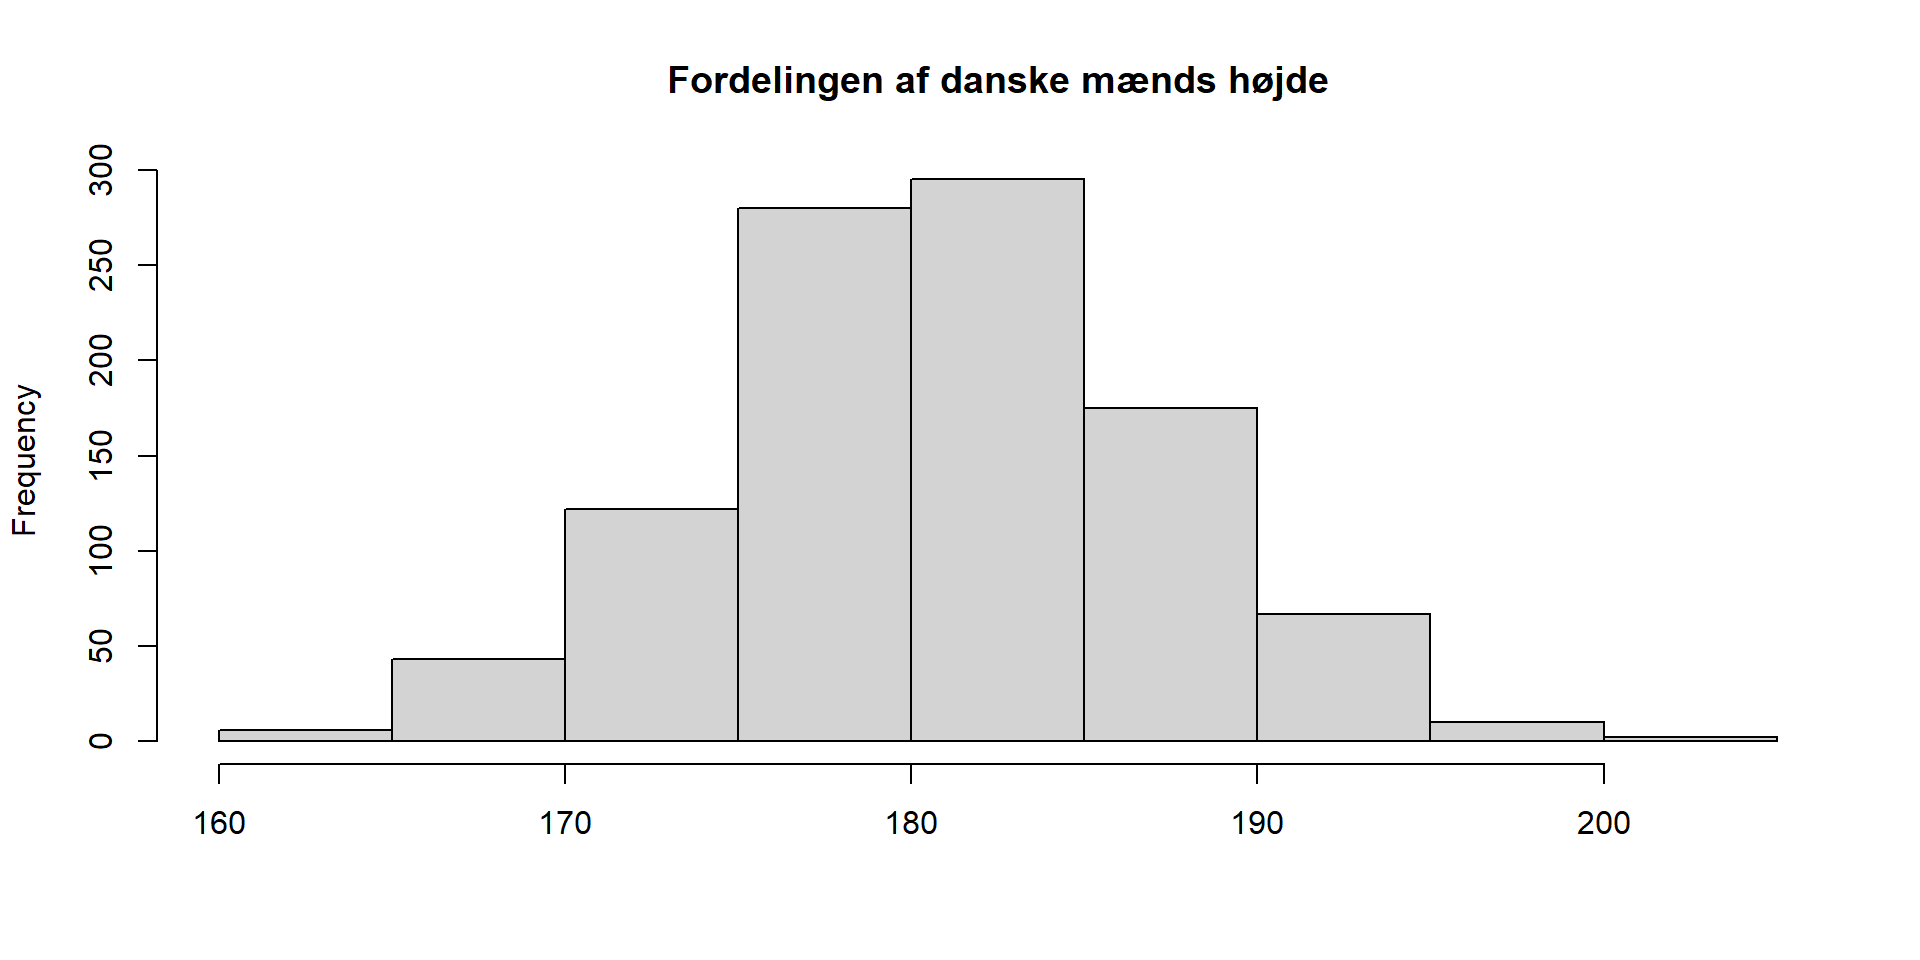
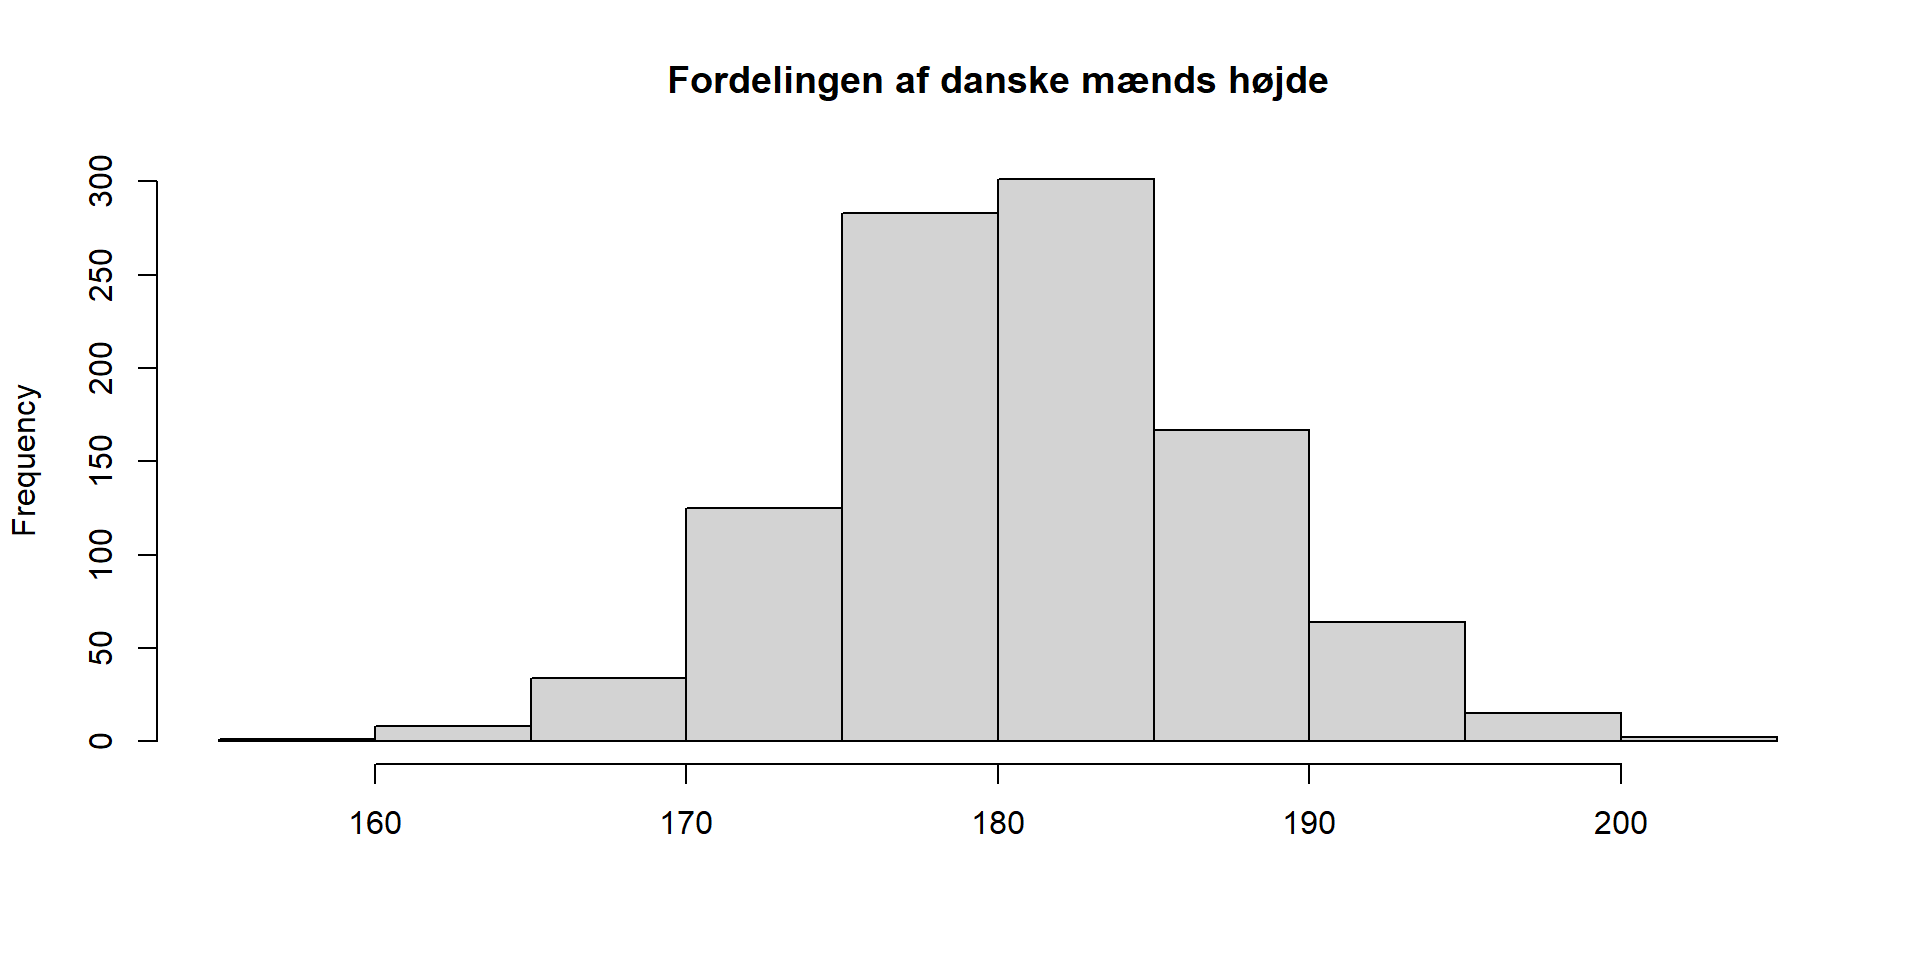
mer på normalfordelingsøvelser

diff --git a/docs/slides/normalfordelingen.html b/docs/slides/normalfordelingen.html
@@ -487,7 +487,7 @@
   };
 
   // Store cell data
-  globalThis.qwebrCellDetails = [{"code":"","id":1,"options":{"autorun":"false","classes":"","comment":"","context":"interactive","dpi":72,"editor-font-scale":"0.5","editor-max-height":"","editor-quick-suggestions":"false","editor-word-wrap":"true","fig-cap":"","fig-height":5,"fig-width":7,"label":"unnamed-chunk-1","layout":"horizontal","message":"true","out-height":"","out-width":"700px","output":"true","read-only":"false","results":"markup","warning":"true"}},{"code":"","id":2,"options":{"autorun":"false","classes":"","comment":"","context":"interactive","dpi":72,"editor-font-scale":"0.5","editor-max-height":"","editor-quick-suggestions":"false","editor-word-wrap":"true","fig-cap":"","fig-height":5,"fig-width":7,"label":"unnamed-chunk-2","layout":"horizontal","message":"true","out-height":"","out-width":"700px","output":"true","read-only":"false","results":"markup","warning":"true"}},{"code":"","id":3,"options":{"autorun":"false","classes":"","comment":"","context":"interactive","dpi":72,"editor-font-scale":"0.5","editor-max-height":"","editor-quick-suggestions":"false","editor-word-wrap":"true","fig-cap":"","fig-height":5,"fig-width":7,"label":"unnamed-chunk-3","layout":"horizontal","message":"true","out-height":"","out-width":"700px","output":"true","read-only":"false","results":"markup","warning":"true"}},{"code":"","id":4,"options":{"autorun":"false","classes":"","comment":"","context":"interactive","dpi":72,"editor-font-scale":"0.5","editor-max-height":"","editor-quick-suggestions":"false","editor-word-wrap":"true","fig-cap":"","fig-height":5,"fig-width":7,"label":"unnamed-chunk-4","layout":"horizontal","message":"true","out-height":"","out-width":"700px","output":"true","read-only":"false","results":"markup","warning":"true"}},{"code":"","id":5,"options":{"autorun":"false","classes":"","comment":"","context":"interactive","dpi":72,"editor-font-scale":"0.5","editor-max-height":"","editor-quick-suggestions":"false","editor-word-wrap":"true","fig-cap":"","fig-height":5,"fig-width":7,"label":"unnamed-chunk-5","layout":"horizontal","message":"true","out-height":"","out-width":"700px","output":"true","read-only":"false","results":"markup","warning":"true"}},{"code":"","id":6,"options":{"autorun":"false","classes":"","comment":"","context":"interactive","dpi":72,"editor-font-scale":"0.5","editor-max-height":"","editor-quick-suggestions":"false","editor-word-wrap":"true","fig-cap":"","fig-height":5,"fig-width":7,"label":"unnamed-chunk-6","layout":"horizontal","message":"true","out-height":"","out-width":"700px","output":"true","read-only":"false","results":"markup","warning":"true"}},{"code":"","id":7,"options":{"autorun":"false","classes":"","comment":"","context":"interactive","dpi":72,"editor-font-scale":"0.5","editor-max-height":"","editor-quick-suggestions":"false","editor-word-wrap":"true","fig-cap":"","fig-height":5,"fig-width":7,"label":"unnamed-chunk-7","layout":"horizontal","message":"true","out-height":"","out-width":"700px","output":"true","read-only":"false","results":"markup","warning":"true"}},{"code":"","id":8,"options":{"autorun":"false","classes":"","comment":"","context":"interactive","dpi":72,"editor-font-scale":"0.5","editor-max-height":"","editor-quick-suggestions":"false","editor-word-wrap":"true","fig-cap":"","fig-height":5,"fig-width":7,"label":"unnamed-chunk-8","layout":"horizontal","message":"true","out-height":"","out-width":"700px","output":"true","read-only":"false","results":"markup","warning":"true"}},{"code":"","id":9,"options":{"autorun":"false","classes":"","comment":"","context":"interactive","dpi":72,"editor-font-scale":"0.5","editor-max-height":"","editor-quick-suggestions":"false","editor-word-wrap":"true","fig-cap":"","fig-height":5,"fig-width":7,"label":"unnamed-chunk-9","layout":"horizontal","message":"true","out-height":"","out-width":"700px","output":"true","read-only":"false","results":"markup","warning":"true"}},{"code":"","id":10,"options":{"autorun":"false","classes":"","comment":"","context":"interactive","dpi":72,"editor-font-scale":"0.5","editor-max-height":"","editor-quick-suggestions":"false","editor-word-wrap":"true","fig-cap":"","fig-height":5,"fig-width":7,"label":"unnamed-chunk-10","layout":"horizontal","message":"true","out-height":"","out-width":"700px","output":"true","read-only":"false","results":"markup","warning":"true"}}];
+  globalThis.qwebrCellDetails = [{"code":"","id":1,"options":{"autorun":"false","classes":"","comment":"","context":"interactive","dpi":72,"editor-font-scale":"0.5","editor-max-height":"","editor-quick-suggestions":"false","editor-word-wrap":"true","fig-cap":"","fig-height":5,"fig-width":7,"label":"unnamed-chunk-1","layout":"horizontal","message":"true","out-height":"","out-width":"700px","output":"true","read-only":"false","results":"markup","warning":"true"}},{"code":"","id":2,"options":{"autorun":"false","classes":"","comment":"","context":"interactive","dpi":72,"editor-font-scale":"0.5","editor-max-height":"","editor-quick-suggestions":"false","editor-word-wrap":"true","fig-cap":"","fig-height":5,"fig-width":7,"label":"unnamed-chunk-2","layout":"horizontal","message":"true","out-height":"","out-width":"700px","output":"true","read-only":"false","results":"markup","warning":"true"}},{"code":"","id":3,"options":{"autorun":"false","classes":"","comment":"","context":"interactive","dpi":72,"editor-font-scale":"0.5","editor-max-height":"","editor-quick-suggestions":"false","editor-word-wrap":"true","fig-cap":"","fig-height":5,"fig-width":7,"label":"unnamed-chunk-3","layout":"horizontal","message":"true","out-height":"","out-width":"700px","output":"true","read-only":"false","results":"markup","warning":"true"}},{"code":"","id":4,"options":{"autorun":"false","classes":"","comment":"","context":"interactive","dpi":72,"editor-font-scale":"0.5","editor-max-height":"","editor-quick-suggestions":"false","editor-word-wrap":"true","fig-cap":"","fig-height":5,"fig-width":7,"label":"unnamed-chunk-4","layout":"horizontal","message":"true","out-height":"","out-width":"700px","output":"true","read-only":"false","results":"markup","warning":"true"}},{"code":"","id":5,"options":{"autorun":"false","classes":"","comment":"","context":"interactive","dpi":72,"editor-font-scale":"0.5","editor-max-height":"","editor-quick-suggestions":"false","editor-word-wrap":"true","fig-cap":"","fig-height":5,"fig-width":7,"label":"unnamed-chunk-5","layout":"horizontal","message":"true","out-height":"","out-width":"700px","output":"true","read-only":"false","results":"markup","warning":"true"}},{"code":"","id":6,"options":{"autorun":"false","classes":"","comment":"","context":"interactive","dpi":72,"editor-font-scale":"0.5","editor-max-height":"","editor-quick-suggestions":"false","editor-word-wrap":"true","fig-cap":"","fig-height":5,"fig-width":7,"label":"unnamed-chunk-6","layout":"horizontal","message":"true","out-height":"","out-width":"700px","output":"true","read-only":"false","results":"markup","warning":"true"}},{"code":"","id":7,"options":{"autorun":"false","classes":"","comment":"","context":"interactive","dpi":72,"editor-font-scale":"0.5","editor-max-height":"","editor-quick-suggestions":"false","editor-word-wrap":"true","fig-cap":"","fig-height":5,"fig-width":7,"label":"unnamed-chunk-7","layout":"horizontal","message":"true","out-height":"","out-width":"700px","output":"true","read-only":"false","results":"markup","warning":"true"}},{"code":"","id":8,"options":{"autorun":"false","classes":"","comment":"","context":"interactive","dpi":72,"editor-font-scale":"0.5","editor-max-height":"","editor-quick-suggestions":"false","editor-word-wrap":"true","fig-cap":"","fig-height":5,"fig-width":7,"label":"unnamed-chunk-8","layout":"horizontal","message":"true","out-height":"","out-width":"700px","output":"true","read-only":"false","results":"markup","warning":"true"}},{"code":"","id":9,"options":{"autorun":"false","classes":"","comment":"","context":"interactive","dpi":72,"editor-font-scale":"0.5","editor-max-height":"","editor-quick-suggestions":"false","editor-word-wrap":"true","fig-cap":"","fig-height":5,"fig-width":7,"label":"unnamed-chunk-9","layout":"horizontal","message":"true","out-height":"","out-width":"700px","output":"true","read-only":"false","results":"markup","warning":"true"}},{"code":"","id":10,"options":{"autorun":"false","classes":"","comment":"","context":"interactive","dpi":72,"editor-font-scale":"0.5","editor-max-height":"","editor-quick-suggestions":"false","editor-word-wrap":"true","fig-cap":"","fig-height":5,"fig-width":7,"label":"unnamed-chunk-10","layout":"horizontal","message":"true","out-height":"","out-width":"700px","output":"true","read-only":"false","results":"markup","warning":"true"}},{"code":"","id":11,"options":{"autorun":"false","classes":"","comment":"","context":"interactive","dpi":72,"editor-font-scale":"0.5","editor-max-height":"","editor-quick-suggestions":"false","editor-word-wrap":"true","fig-cap":"","fig-height":5,"fig-width":7,"label":"unnamed-chunk-11","layout":"horizontal","message":"true","out-height":"","out-width":"700px","output":"true","read-only":"false","results":"markup","warning":"true"}},{"code":"","id":12,"options":{"autorun":"false","classes":"","comment":"","context":"interactive","dpi":72,"editor-font-scale":"0.5","editor-max-height":"","editor-quick-suggestions":"false","editor-word-wrap":"true","fig-cap":"","fig-height":5,"fig-width":7,"label":"unnamed-chunk-12","layout":"horizontal","message":"true","out-height":"","out-width":"700px","output":"true","read-only":"false","results":"markup","warning":"true"}}];
 
   </script>
   <script type="module">
@@ -2069,11 +2069,11 @@ globalThis.qwebrCreateMonacoEditorInstance = function (cellData) {
 <h2>Hvordan kan vi beskrive alle de her observationer?</h2>
 <div class="cell">
 <div class="cell-output cell-output-stdout">
-<pre><code> [1] 179.8 186.2 174.0 176.3 188.8 173.0 170.6 173.5 172.7 190.5 183.1 188.4
-[13] 173.5 172.4 166.5 180.4 180.4 179.1 174.6 177.5 171.3 187.8 170.1 170.9
-[25] 177.0 182.6 184.4 189.0 187.9 176.9 173.7 180.0 194.5 181.6 184.5 172.0
-[37] 191.1 186.3 176.5 180.9 184.7 187.4 178.2 175.5 174.0 177.9 175.5 176.4
-[49] 188.3 181.9</code></pre>
+<pre><code> [1] 198.3 185.5 179.8 176.2 191.5 182.3 176.4 190.2 187.2 189.3 172.9 177.4
+[13] 174.3 170.4 177.8 177.6 183.9 187.4 186.3 174.1 188.7 166.1 187.1 181.3
+[25] 185.2 179.9 186.2 176.9 189.5 179.2 189.1 186.5 185.3 167.0 175.5 179.7
+[37] 167.4 179.9 165.1 179.0 183.3 185.2 181.7 185.8 177.6 177.3 186.0 182.5
+[49] 179.2 187.9</code></pre>
 </div>
 </div>
 <div class="fragment">
@@ -2763,10 +2763,68 @@ f(x) = \frac{1}{\sqrt{2\pi\sigma^2}} e^{-\frac{(x-\mu)^2}{2\sigma^2}}
 </section>
 <section id="øvelse---manglende-procentil" class="slide level2">
 <h2>Øvelse - Manglende procentil:</h2>
+<div class="columns">
+<div class="column">
 <p>En normalfordelt population har middelværdi <span class="math inline">\(\mu = 12.5\)</span> og standardafvigelse <span class="math inline">\(\sigma = 3.2\)</span>. Hvor stor en andel af værdierne er mindre end 10?</p>
-<p>P(X &lt; 10 ) = ?</p>
-<p>P(Z &lt; 10 - mu / sigma) pnorm((10-12.5)/3.2) ## Øvelse - Manglende standardafvigelse: I en normalfordelt population er middelværdien <span class="math inline">\(\mu = 85\)</span> og 25% af værdierne er større end 95. Hvad er standardafvigelsen <span class="math inline">\(\sigma\)</span> for denne fordeling?</p>
-<p>P(X&gt;95) = 0.25 P(X&lt;95) = 1-0.25 = 0.75 P(Z&lt;(95-mu)/sigma) = 0.75 (95-85)/sigma = qnorm(0.75) 10/qnorm(0.75) = sigma</p>
+<p>Med andre ord, hvad er:</p>
+<p><span class="math inline">\(P(X &lt; 10)\)</span></p>
+<p>Transformer til standardnormalfordelingen:</p>
+<p><span class="math inline">\(P(Z &lt; \frac{10 - \mu}{\sigma})\)</span></p>
+</div><div class="column">
+<div id="qwebr-insertion-location-11"></div>
+<noscript>Please enable JavaScript to experience the dynamic code cell content on this page.</noscript>
+</div></div>
+<aside class="notes">
+<p>pnorm((10-12.5)/3.2)</p>
+<style type="text/css">
+        span.MJX_Assistive_MathML {
+          position:absolute!important;
+          clip: rect(1px, 1px, 1px, 1px);
+          padding: 1px 0 0 0!important;
+          border: 0!important;
+          height: 1px!important;
+          width: 1px!important;
+          overflow: hidden!important;
+          display:block!important;
+      }</style></aside>
+</section>
+<section id="øvelse---manglende-sigma" class="slide level2">
+<h2>Øvelse - Manglende <span class="math inline">\(\sigma\)</span></h2>
+<div class="columns">
+<div class="column">
+<p>I en normalfordelt population er <span class="math inline">\(\mu = 85\)</span> og 25% af værdierne er større end 95. Hvad er <span class="math inline">\(\sigma\)</span> for denne fordeling?</p>
+<div class="fragment">
+<p>P(X &gt; 95) = 0.25</p>
+</div>
+<div class="fragment">
+<p>P(X&lt;95) = 1-0.25 = 0.75</p>
+</div>
+<div class="fragment">
+<p><span class="math inline">\(P(Z&lt; \frac{95-\mu}{\sigma}) = 0.75\)</span></p>
+</div>
+<div class="fragment">
+<p><span class="math inline">\((95-85)/\sigma = qnorm(0.75)\)</span></p>
+</div>
+<div class="fragment">
+<p><span class="math inline">\(10/qnorm(0.75) = \sigma\)</span></p>
+</div>
+</div><div class="column">
+<div id="qwebr-insertion-location-12"></div>
+<noscript>Please enable JavaScript to experience the dynamic code cell content on this page.</noscript>
+</div></div>
+<aside class="notes">
+<p>pnorm((10-12.5)/3.2)</p>
+<style type="text/css">
+        span.MJX_Assistive_MathML {
+          position:absolute!important;
+          clip: rect(1px, 1px, 1px, 1px);
+          padding: 1px 0 0 0!important;
+          border: 0!important;
+          height: 1px!important;
+          width: 1px!important;
+          overflow: hidden!important;
+          display:block!important;
+      }</style></aside>
 </section>
 <section id="øvelse---manglende-værdi-ved-given-procentil" class="slide level2">
 <h2>Øvelse - Manglende værdi ved given procentil:</h2>

diff --git a/docs/slides/side-by-side-demo.html b/docs/slides/side-by-side-demo.html
@@ -421,7 +421,7 @@
   };
 
   // Store cell data
-  globalThis.qwebrCellDetails = [{"code":"fit = lm(mpg ~ am, data = mtcars)\n\nplot(mtcars)","id":1,"options":{"autorun":"true","classes":"","comment":"","context":"interactive","dpi":72,"editor-font-scale":"0.5","editor-max-height":"","editor-quick-suggestions":"false","editor-word-wrap":"true","fig-cap":"","fig-height":5,"fig-width":7,"label":"unnamed-chunk-1","layout":"horizontal","message":"true","out-height":"","out-width":"700px","output":"true","read-only":"false","results":"markup","warning":"true"}},{"code":"fit = lm(mpg ~ am, data = mtcars)\n\nplot(mtcars)","id":2,"options":{"autorun":"true","classes":"","comment":"","context":"interactive","dpi":72,"editor-font-scale":"0.5","editor-max-height":"","editor-quick-suggestions":"false","editor-word-wrap":"true","fig-cap":"","fig-height":5,"fig-width":7,"label":"unnamed-chunk-2","layout":"horizontal","message":"true","out-height":"","out-width":"700px","output":"true","read-only":"false","results":"markup","warning":"true"}}];
+  globalThis.qwebrCellDetails = [{"code":"fit = lm(mpg ~ am, data = mtcars)\n\nplot(mtcars)","id":1,"options":{"autorun":"true","classes":"","comment":"","context":"interactive","dpi":72,"editor-font-scale":"0.5","editor-max-height":"","editor-quick-suggestions":"false","editor-word-wrap":"true","fig-cap":"","fig-height":5,"fig-width":7,"label":"unnamed-chunk-1","layout":"horizontal","message":"true","out-height":"","out-width":"700px","output":"true","read-only":"false","results":"markup","warning":"true"}},{"code":"fit = lm(mpg ~ am, data = mtcars)\n\nplot(mtcars)","id":2,"options":{"autorun":"true","classes":"","comment":"","context":"interactive","dpi":72,"editor-font-scale":"0.5","editor-max-height":"","editor-quick-suggestions":"false","editor-word-wrap":"true","fig-cap":"","fig-height":5,"fig-width":7,"label":"unnamed-chunk-2","layout":"horizontal","message":"true","out-height":"","out-width":"700px","output":"true","read-only":"false","results":"markup","warning":"true"}},{"code":"","id":3,"options":{"autorun":"false","classes":"","comment":"","context":"interactive","dpi":72,"editor-font-scale":"0.5","editor-max-height":"","editor-quick-suggestions":"false","editor-word-wrap":"true","fig-cap":"","fig-height":5,"fig-width":7,"label":"unnamed-chunk-3","layout":"horizontal","message":"true","out-height":"","out-width":"700px","output":"true","read-only":"false","results":"markup","warning":"true"}}];
 
   </script>
   <script type="module">
@@ -1982,6 +1982,16 @@ globalThis.qwebrCreateMonacoEditorInstance = function (cellData) {
 <p>ting</p>
 <div id="qwebr-insertion-location-2"></div>
 <noscript>Please enable JavaScript to experience the dynamic code cell content on this page.</noscript>
+</section>
+<section id="øvelse-1" class="slide level2">
+<h2>Øvelse 1</h2>
+<div class="columns">
+<div class="column">
+<p>Her skriver vi hvad der skal stå til venstre</p>
+</div><div class="column">
+<div id="qwebr-insertion-location-3"></div>
+<noscript>Please enable JavaScript to experience the dynamic code cell content on this page.</noscript>
+</div></div>
 
 
 </section>
